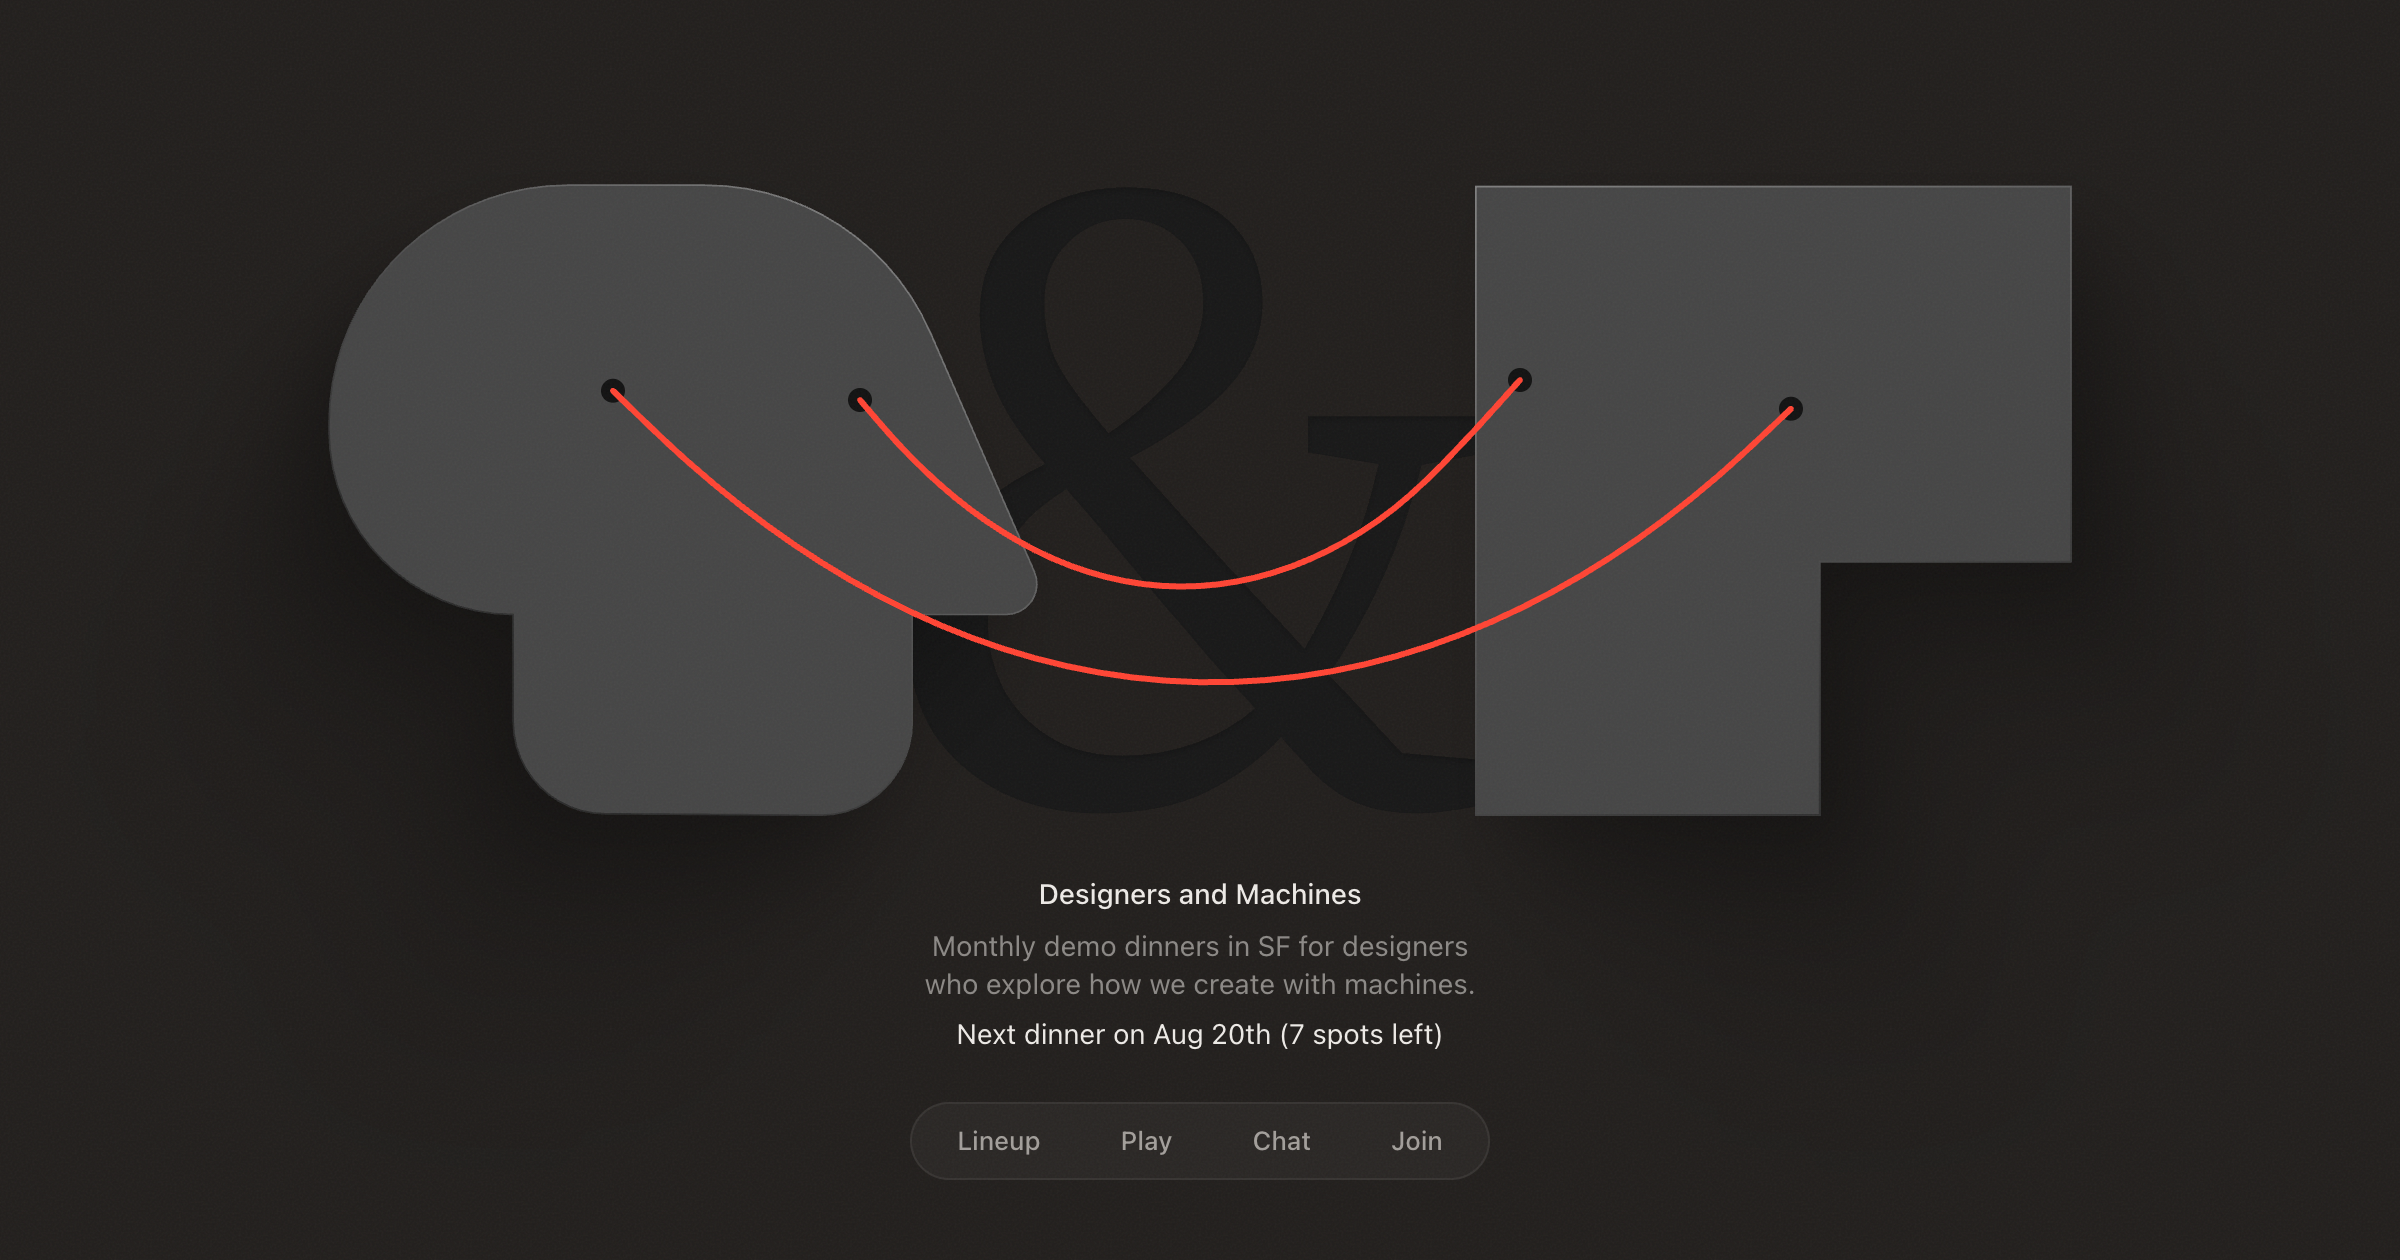
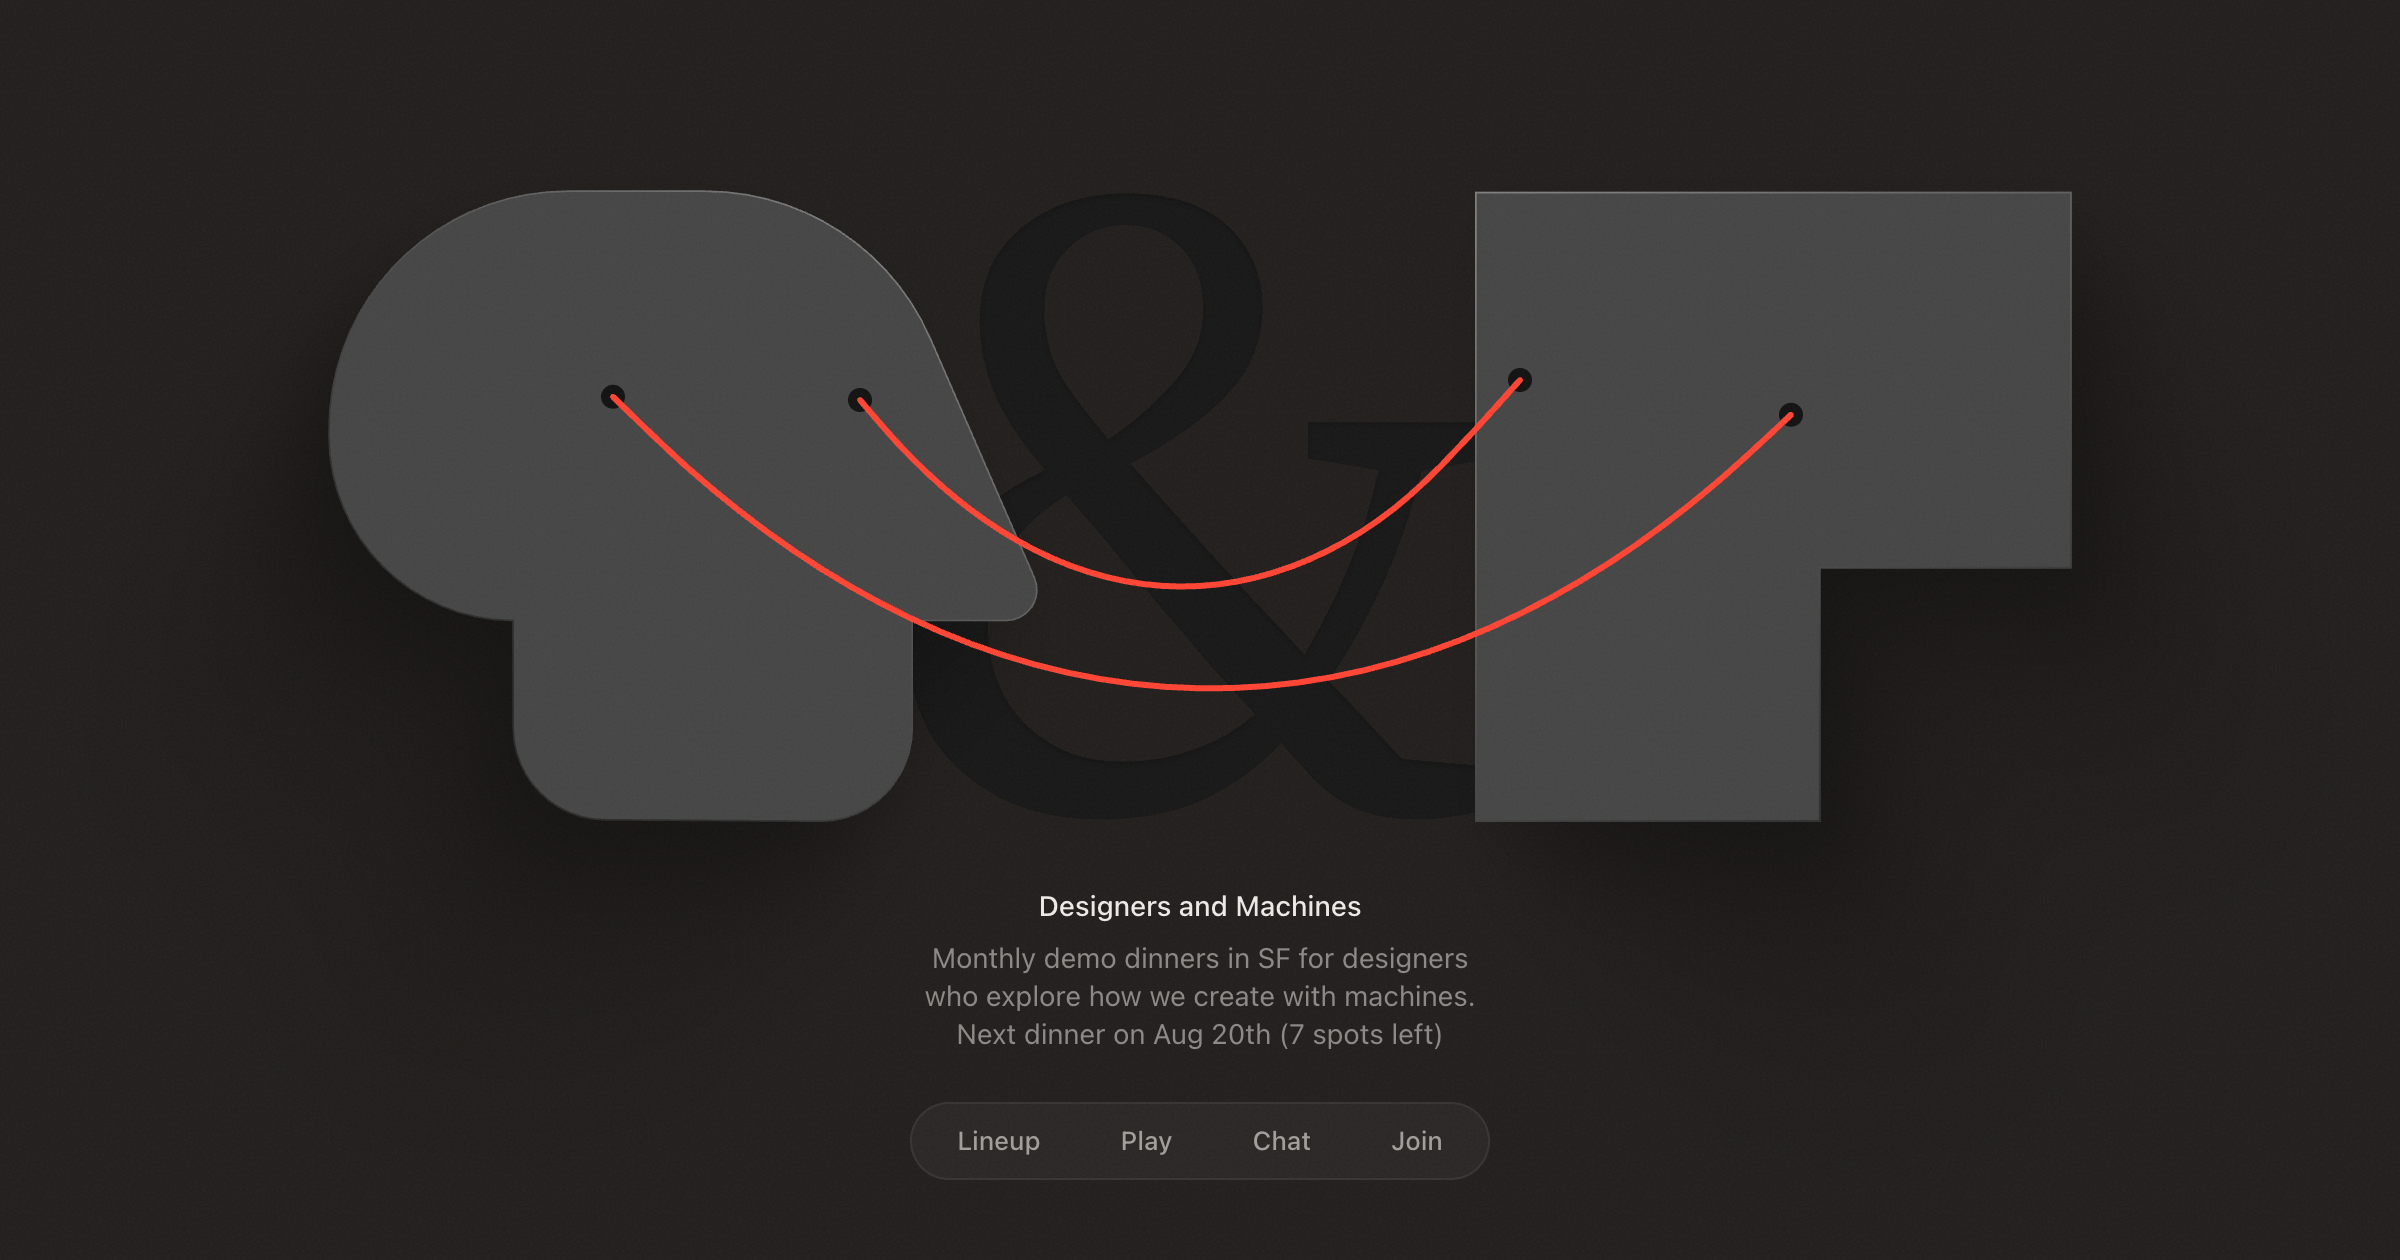
Fold next-dinner line into the hero subtitle paragraph, refresh OG image

diff --git a/components/Hero.tsx b/components/Hero.tsx
@@ -451,8 +451,7 @@ export default function Hero() {
         <p className="mt-1.5 max-w-[290px] text-center text-sm leading-snug text-[#8B8885]">
           Monthly demo dinners in SF for designers who explore how we create
           with machines.
-        </p>
-        <p className="mt-1.5 text-center text-sm leading-snug text-[#EDEAE6]">
+          <br />
           Next dinner on Aug 20th (7 spots left)
         </p>
         <BottomDock
